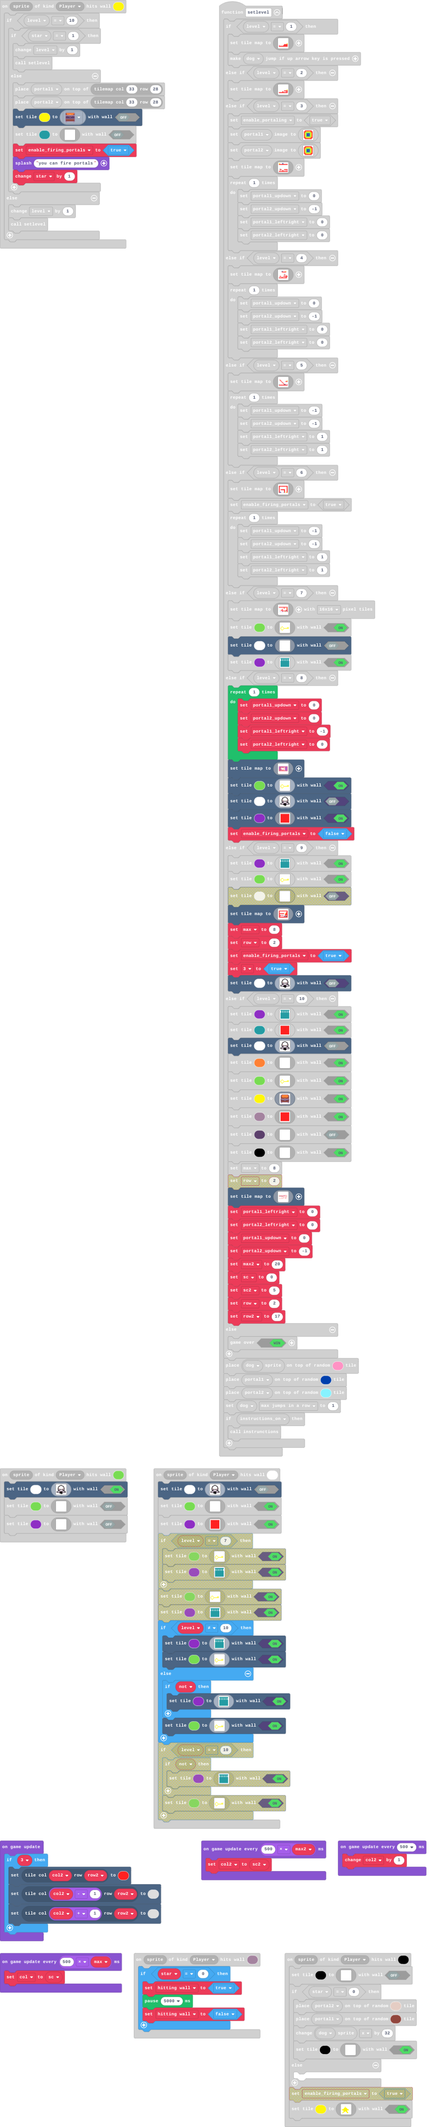
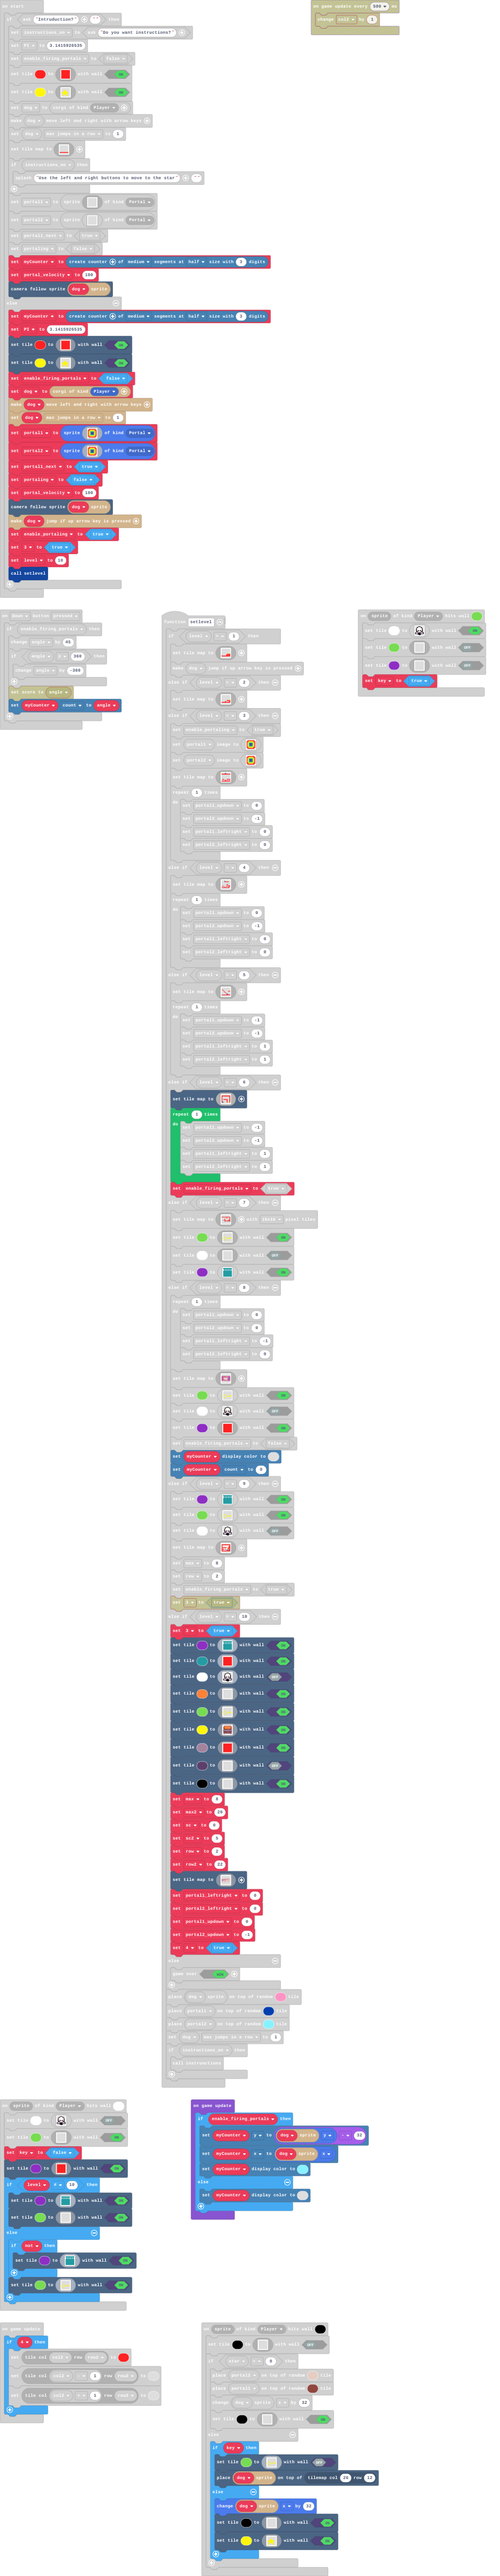
Update pxt.json, main.blocks, main.ts

diff --git a/main.ts b/main.ts
@@ -116,13 +116,13 @@ function setlevel () {
             2 . . . . . 2 . . 2 
             2 8 3 . . 9 2 . 5 2 
             `)
-        enable_firing_portals = true
         for (let index = 0; index < 1; index++) {
             portal1_updown = -1
             portal2_updown = -1
             portal1_leftright = 1
             portal2_leftright = 1
         }
+        enable_firing_portals = true
     } else if (level == 7) {
         scene.setTileMap(img`
             2 2 2 2 2 2 2 2 2 2 2 2 2 2 
@@ -274,6 +274,8 @@ function setlevel () {
             2 2 2 2 2 2 2 2 2 2 2 2 2 2 2 2 
             `, true)
         enable_firing_portals = false
+        myCounter.setDigitColor(0)
+        myCounter.count = 0
     } else if (level == 9) {
         scene.setTile(10, img`
             6 6 6 6 6 6 6 6 6 6 6 6 6 6 6 6 
@@ -342,8 +344,8 @@ function setlevel () {
         max = 8
         row = 2
         enable_firing_portals = true
-        _3 = true
     } else if (level == 10) {
+        _3 = true
         scene.setTile(10, img`
             6 6 6 6 6 6 6 6 6 6 6 6 6 6 6 6 
             6 6 6 6 6 6 6 6 6 6 6 6 6 6 6 6 
@@ -511,7 +513,7 @@ function setlevel () {
         sc = 0
         sc2 = 5
         row = 2
-        row2 = 17
+        row2 = 22
         scene.setTileMap(img`
             2222222222..............7......2.......72..........f.2222222..........
             3.......................2......2........2..111.....2........2.........
@@ -521,33 +523,34 @@ function setlevel () {
             2.......................22a22222..2222922.2222aaa2.2.2.....2.2...2....
             2.......................7241.....aaaaaaa2.7aaaa212.2.2........2..2....
             2222222222222aa22222222222222222222aaab222222222.2.2.2..2.......22....
-            26666666666666aaaaaaaaaaaaaaaaaaaaaa2aaaaaaaaaaa72.....22..2222222....
+            26666616666666aaaaaaaaaaaaaaaaaaaaaa2aaaaaaaaaaa72.....22..2222222....
             2622222222222222222222222222222222662222222222222222a22222.......2....
             26222222222222222222222222222222222.........2....2.2.2....2222...2....
             26f6666666666666666666666222222222225.......2....2.2.2.....2...2.2....
-            22222222222222222222222262222222222.2.......2....2.2.2.....2..2..2....
-            2.......222222222222222262222222222..2.222222....2.2.2.......2...2....
-            2......................2.2........2..2.2....2....2..........2....2....
-            2......................2.2........2..2.2....2....222a22..2222222.2....
-            2......................2.2........2..2.2....2....2......2..2.....2....
-            2......................2.2........2..2.2....2....2.....2...2....2.....
-            2......................2.2........2..2.2....2....2...2.....2...2......
-            2......................2.2........2..2.2....2....2.2..2....2..2.......
-            2......................2.2........2..2.2....2....222a222..2..2........
-            2......................2.2........2..2.2....2....2.......2..2.........
-            2......................2.2........2..2.2....2....2......2..2..........
-            2......................2.2........2..2.2....2....2.....2...2..........
-            2......................2.2........2..2.2....2....2...2.....2..........
-            2......................2.2........2..2.2....2....222a222..22..........
-            2......................2.2........2..2.2....2....2.1.1...222..........
-            2......................2.2........2.........2....271.1..2..2..........
-            2........................2........2.........2....2..e..2...2..........
+            22222222222222222222222262aaaaaaaa2.2.......2....2.2.2.....2..2..2....
+            2aaaaaaaaaa2aaaaaaaaaaf2622222222a2..2.222222....2.2.2.......2...2....
+            2aaaaaaaaaa2222aa2222222.2......2.2..2.2....2....2..........2....2....
+            2aaaaaaaaaaaaaaa2aaaaaa2.2......2.2..2.2....2....222a22..2222222.2....
+            2aaaaaaaaaaaaaa2aaaaaaa2.2......2.2..2.2....2....2......2..2.....2....
+            2222222aa222222222222222.2......2.2..2.2....2....2.....2...2....2.....
+            2....a22aaaaa..........2.2.....52.2..2.2....2....2...2.....2...2......
+            2....aaa222aa..........2.2..22222.2..2.2....2....2.2..2....2..2.......
+            2....aaaaaa2a..........2.2......2.2..2.2....2....222a222..2..2........
+            2............2.........2.2......2.2..2.2....2....2.......2..2.........
+            2aaaa22222222222222....2.2.222222.2..2.2....2....2......2..2..........
+            2aaa2a.............7...2.2......2.2..2.2....2....2.....2...2..........
+            2aa22a.................2.2......2.2..2.2....2....2...2.....2..........
+            22aaaa.................2.222222.2.2..2.2....2....222a222..22..........
+            2222aa.................2.2......2.2..2.2....2....2.1.1...222..........
+            2aaa2a.................2.2......2.2.........2....271.1..2..2..........
+            2aaaa2.................1.2......1.2.........2....2..e..2...2..........
             22222222222222222222222222222222222...d.....2....22222222222..........
             `)
         portal1_leftright = 0
         portal2_leftright = 0
         portal1_updown = 0
         portal2_updown = -1
+        _4 = true
     } else {
         game.over(true)
     }
@@ -671,6 +674,7 @@ scene.onHitTile(SpriteKind.Player, 7, function (sprite) {
         . . . . . . . . . . . . . . . . 
         . . . . . . . . . . . . . . . . 
         `, false)
+    key = true
 })
 scene.onHitTile(SpriteKind.Portal, 15, function (sprite) {
 	
@@ -681,7 +685,7 @@ controller.down.onEvent(ControllerButtonEvent.Pressed, function () {
         if (angle >= 360) {
             angle += -360
         }
-        info.setScore(angle)
+        myCounter.count = angle
     }
 })
 scene.onHitTile(SpriteKind.Player, 5, function (sprite) {
@@ -815,24 +819,65 @@ scene.onHitTile(SpriteKind.Player, 15, function (sprite) {
             . . . . . . . . . . . . . . . . 
             `, true)
     } else {
-        scene.setTile(5, img`
-            . . . . . . . . . . . . . . . . 
-            . . . . . . . . . . . . . . . . 
-            . . . . . . . . . . . . . . . . 
-            . . . . . . 5 . . . . . . . . . 
-            . . . . . . 5 . . . . . . . . . 
-            . . . . . 5 5 5 5 . . . . . . . 
-            . . . . 5 5 5 5 5 5 . . . . . . 
-            . . . 5 5 5 5 5 5 5 5 . . . . . 
-            5 5 5 5 5 5 5 5 5 5 5 5 5 . . . 
-            . 5 5 5 5 5 5 5 5 5 5 5 5 . . . 
-            . . . 5 5 5 5 5 5 5 . . . . . . 
-            . . . . 5 5 5 5 5 5 . . . . . . 
-            . . . 5 5 5 . . 5 5 5 . . . . . 
-            . . 5 5 . . . . . 5 5 5 . . . . 
-            . 5 5 . . . . . . . 5 5 . . . . 
-            . . . . . . . . . . . . . . . . 
-            `, true)
+        if (key) {
+            scene.setTile(7, img`
+                . . . . . . . . . . . . . . . . 
+                . . . . . . . . . . . . . . . . 
+                . . . . . . . . . . . . . . . . 
+                . . . . . . . . . . . . . . . . 
+                . . . . . . . . . . . . . . . . 
+                . . . . . . . . . . . . . . . . 
+                . . 5 5 . . . . . . . . . . . . 
+                . 5 . . 5 . . . . . . . 5 . 5 . 
+                5 . . . . 5 . . . . . . 5 . 5 . 
+                5 . . . . . 5 5 5 5 5 5 5 5 5 . 
+                5 . . . . 5 . . . . . . . . . . 
+                . 5 . . 5 . . . . . . . . . . . 
+                . . 5 5 . . . . . . . . . . . . 
+                . . . . . . . . . . . . . . . . 
+                . . . . . . . . . . . . . . . . 
+                . . . . . . . . . . . . . . . . 
+                `, false)
+            tiles.placeOnTile(dog.sprite, tiles.getTileLocation(26, 12))
+        } else {
+            dog.sprite.x += 32
+            scene.setTile(15, img`
+                . . . . . . . . . . . . . . . . 
+                . . . . . . . . . . . . . . . . 
+                . . . . . . . . . . . . . . . . 
+                . . . . . . . . . . . . . . . . 
+                . . . . . . . . . . . . . . . . 
+                . . . . . . . . . . . . . . . . 
+                . . . . . . . . . . . . . . . . 
+                . . . . . . . . . . . . . . . . 
+                . . . . . . . . . . . . . . . . 
+                . . . . . . . . . . . . . . . . 
+                . . . . . . . . . . . . . . . . 
+                . . . . . . . . . . . . . . . . 
+                . . . . . . . . . . . . . . . . 
+                . . . . . . . . . . . . . . . . 
+                . . . . . . . . . . . . . . . . 
+                . . . . . . . . . . . . . . . . 
+                `, true)
+            scene.setTile(5, img`
+                . . . . . . . . . . . . . . . . 
+                . . . . . . . . . . . . . . . . 
+                . . . . . . . . . . . . . . . . 
+                . . . . . . 5 . . . . . . . . . 
+                . . . . . . 5 . . . . . . . . . 
+                . . . . . 5 5 5 5 . . . . . . . 
+                . . . . 5 5 5 5 5 5 . . . . . . 
+                . . . 5 5 5 5 5 5 5 5 . . . . . 
+                5 5 5 5 5 5 5 5 5 5 5 5 5 . . . 
+                . 5 5 5 5 5 5 5 5 5 5 5 5 . . . 
+                . . . 5 5 5 5 5 5 5 . . . . . . 
+                . . . . 5 5 5 5 5 5 . . . . . . 
+                . . . 5 5 5 . . 5 5 5 . . . . . 
+                . . 5 5 . . . . . 5 5 5 . . . . 
+                . 5 5 . . . . . . . 5 5 . . . . 
+                . . . . . . . . . . . . . . . . 
+                `, true)
+        }
     }
 })
 scene.onHitTile(SpriteKind.Player, 1, function (sprite) {
@@ -872,6 +917,7 @@ scene.onHitTile(SpriteKind.Player, 1, function (sprite) {
         . . . . . . . . . . . . . . . . 
         . . . . . . . . . . . . . . . . 
         `, true)
+    key = false
     scene.setTile(10, img`
         2 2 2 2 2 2 2 2 2 2 2 2 2 2 2 2 
         2 2 2 2 2 2 2 2 2 2 2 2 2 2 2 2 
@@ -916,13 +962,13 @@ scene.onHitTile(SpriteKind.Player, 1, function (sprite) {
             . . . . . . . . . . . . . . . . 
             . . . . . . . . . . . . . . . . 
             . . . . . . . . . . . . . . . . 
-            . . 5 5 . . . . . . . . . . . . 
-            . 5 . . 5 . . . . . . . 5 . 5 . 
-            5 . . . . 5 . . . . . . 5 . 5 . 
-            5 . . . . . 5 5 5 5 5 5 5 5 5 . 
-            5 . . . . 5 . . . . . . . . . . 
-            . 5 . . 5 . . . . . . . . . . . 
-            . . 5 5 . . . . . . . . . . . . 
+            . . . . . . . . . . . . . . . . 
+            . . . . . . . . . . . . . . . . 
+            . . . . . . . . . . . . . . . . 
+            . . . . . . . . . . . . . . . . 
+            . . . . . . . . . . . . . . . . 
+            . . . . . . . . . . . . . . . . 
+            . . . . . . . . . . . . . . . . 
             . . . . . . . . . . . . . . . . 
             . . . . . . . . . . . . . . . . 
             . . . . . . . . . . . . . . . . 
@@ -1005,6 +1051,7 @@ scene.onHitTile(SpriteKind.Portal, 2, function (sprite) {
 let col2 = 0
 let col = 0
 let not = false
+let key = false
 let vel_y = 0
 let vel_x = 0
 let angle = 0
@@ -1024,6 +1071,7 @@ let portal1_updown = 0
 let level = 0
 let enable_portaling = false
 let portal_velocity = 0
+let myCounter: DigitCounter = null
 let portaling = false
 let portal1_next = false
 let portal2: Sprite = null
@@ -1032,6 +1080,7 @@ let dog: Corgio = null
 let enable_firing_portals = false
 let PI = 0
 let instructions_on = false
+let _4 = false
 let _3 = false
 if (game.ask("Intruduction?")) {
     instructions_on = game.ask("Do you want instructions?")
@@ -1127,9 +1176,11 @@ if (game.ask("Intruduction?")) {
         `, SpriteKind.Portal)
     portal1_next = true
     portaling = false
+    myCounter = sevenseg.createCounter(SegmentStyle.Medium, SegmentScale.Half, 3)
     portal_velocity = 100
     scene.cameraFollowSprite(dog.sprite)
 } else {
+    myCounter = sevenseg.createCounter(SegmentStyle.Medium, SegmentScale.Half, 3)
     PI = 3.1415926535
     scene.setTile(2, img`
         2 2 2 2 2 2 2 2 2 2 2 2 2 2 2 2 
@@ -1211,6 +1262,15 @@ game.onUpdate(function () {
     }
 })
 game.onUpdate(function () {
+    if (enable_firing_portals) {
+        myCounter.y = dog.sprite.y - 32
+        myCounter.x = dog.sprite.x
+        myCounter.setDigitColor(9)
+    } else {
+        myCounter.setDigitColor(0)
+    }
+})
+game.onUpdate(function () {
     if (_3) {
         scene.setTileAt(scene.getTile(col, row), 2)
         scene.setTileAt(scene.getTile(col - 1, row), 0)
@@ -1218,7 +1278,7 @@ game.onUpdate(function () {
     }
 })
 game.onUpdate(function () {
-    if (_3) {
+    if (_4) {
         scene.setTileAt(scene.getTile(col2, row2), 2)
         scene.setTileAt(scene.getTile(col2 - 1, row2), 0)
         scene.setTileAt(scene.getTile(col2 + 1, row2), 0)
@@ -1232,7 +1292,5 @@ game.onUpdateInterval(500 * max2, function () {
 })
 game.onUpdateInterval(500, function () {
     col += 1
-})
-game.onUpdateInterval(500, function () {
     col2 += 1
 })
